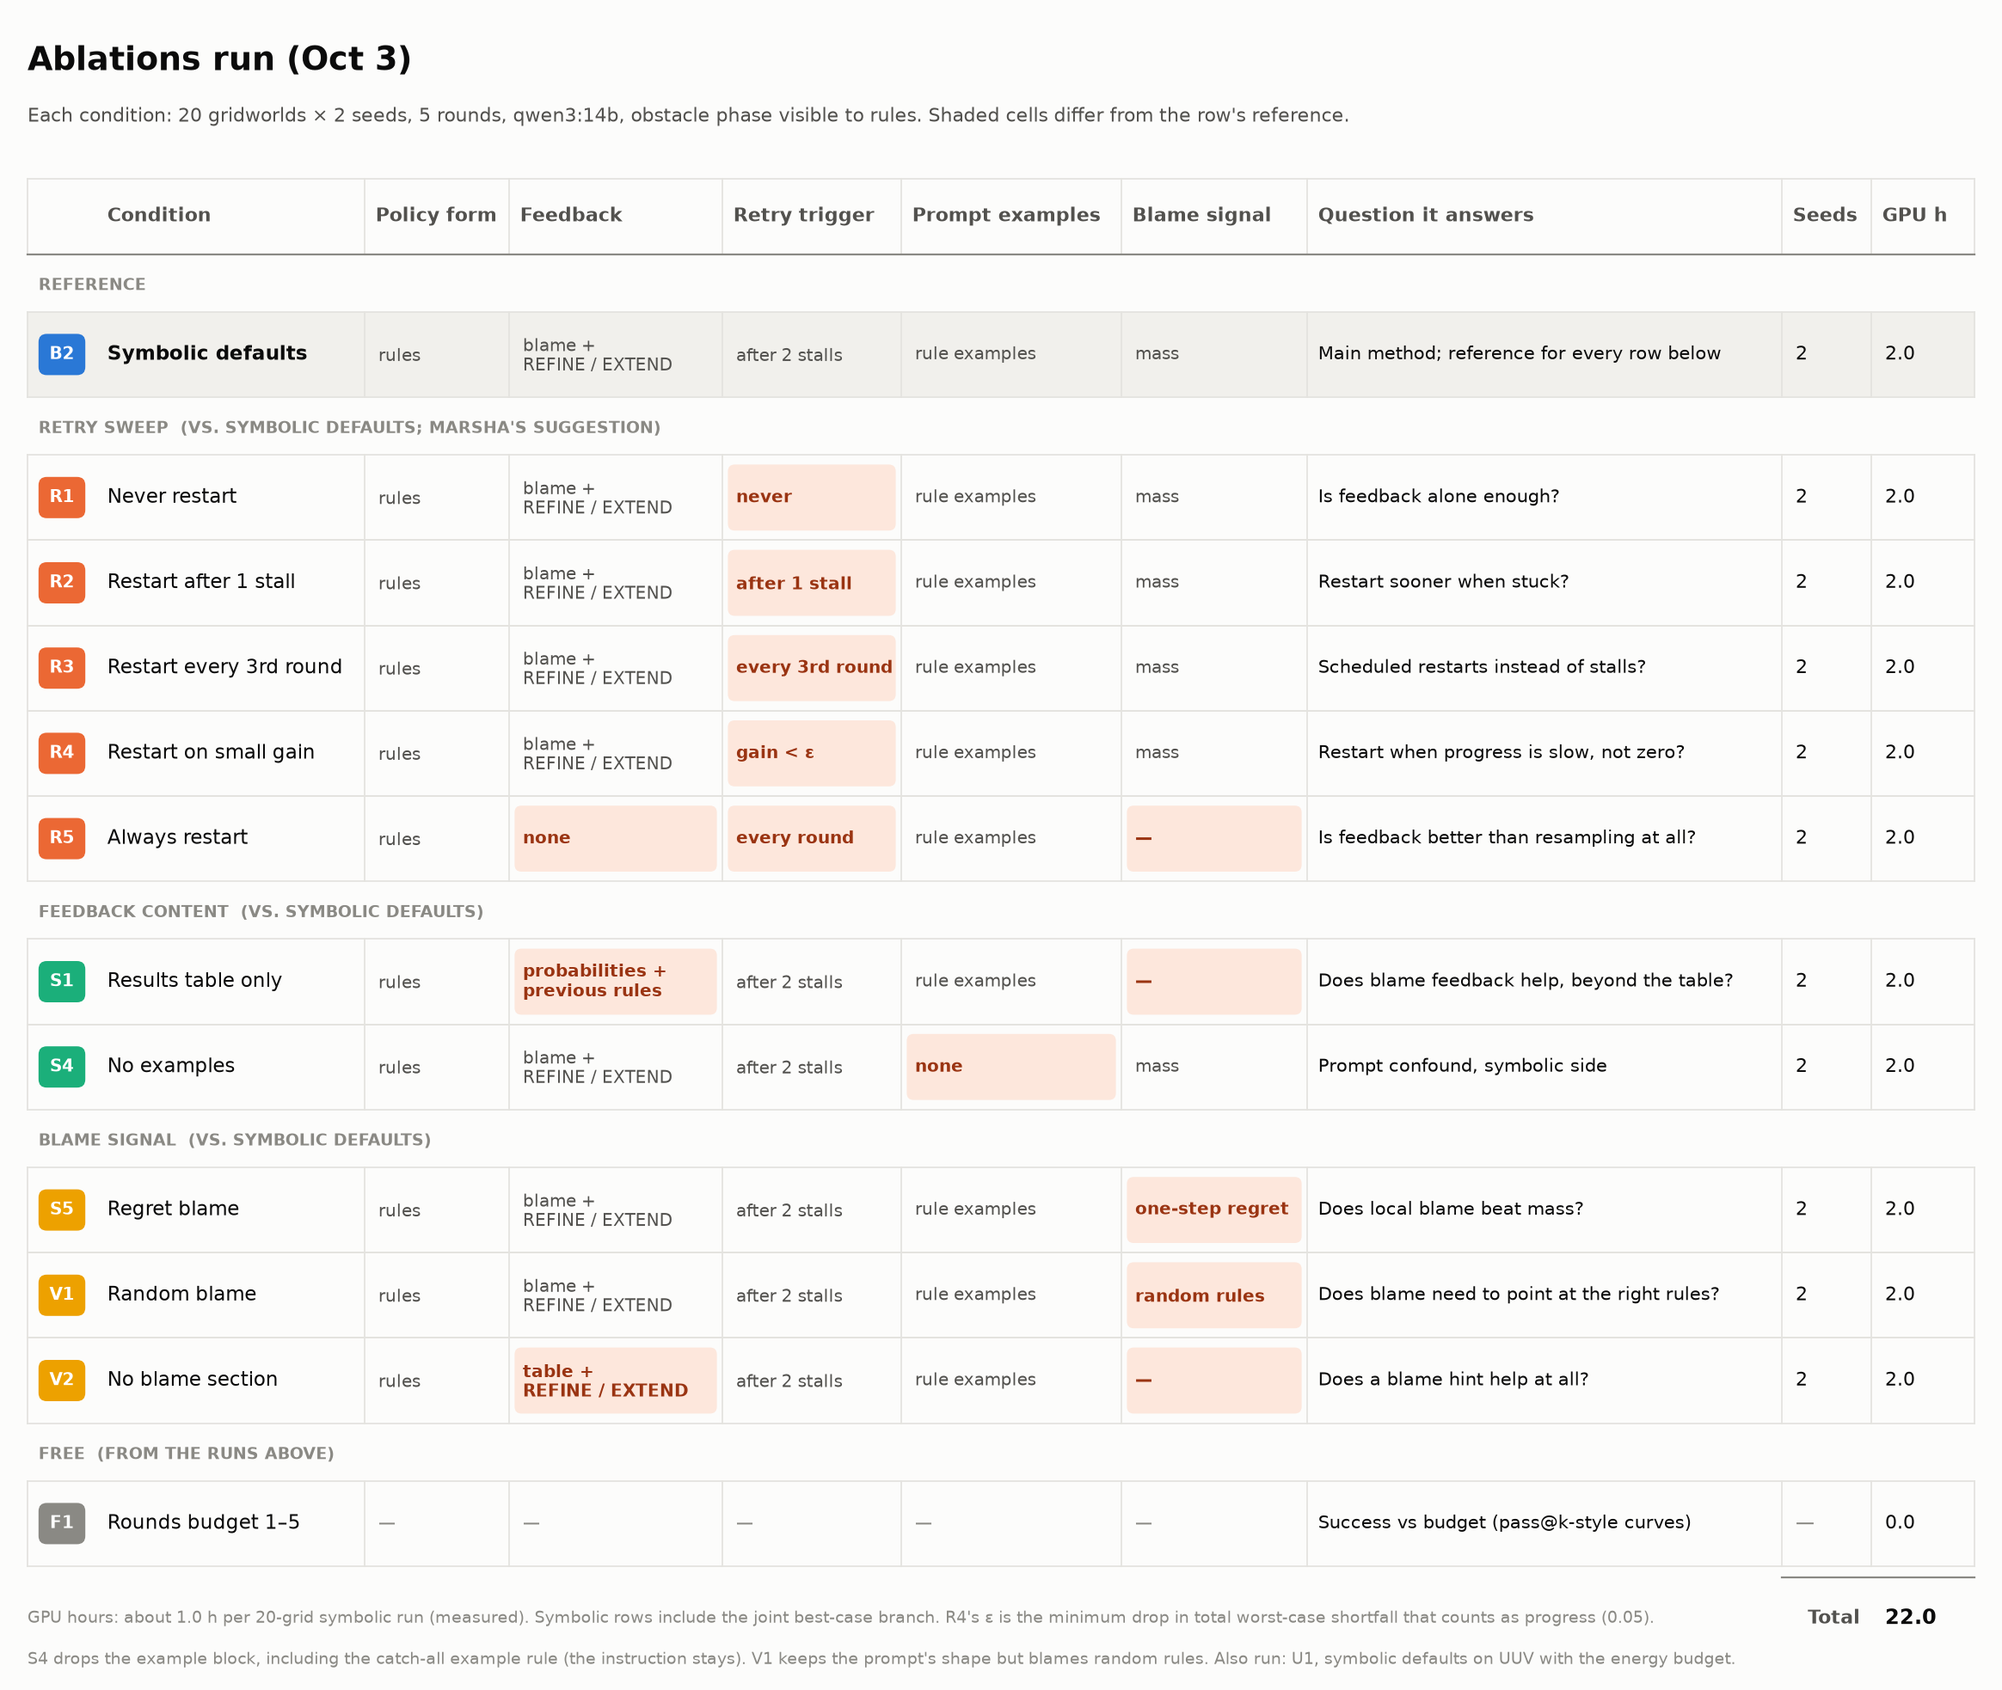
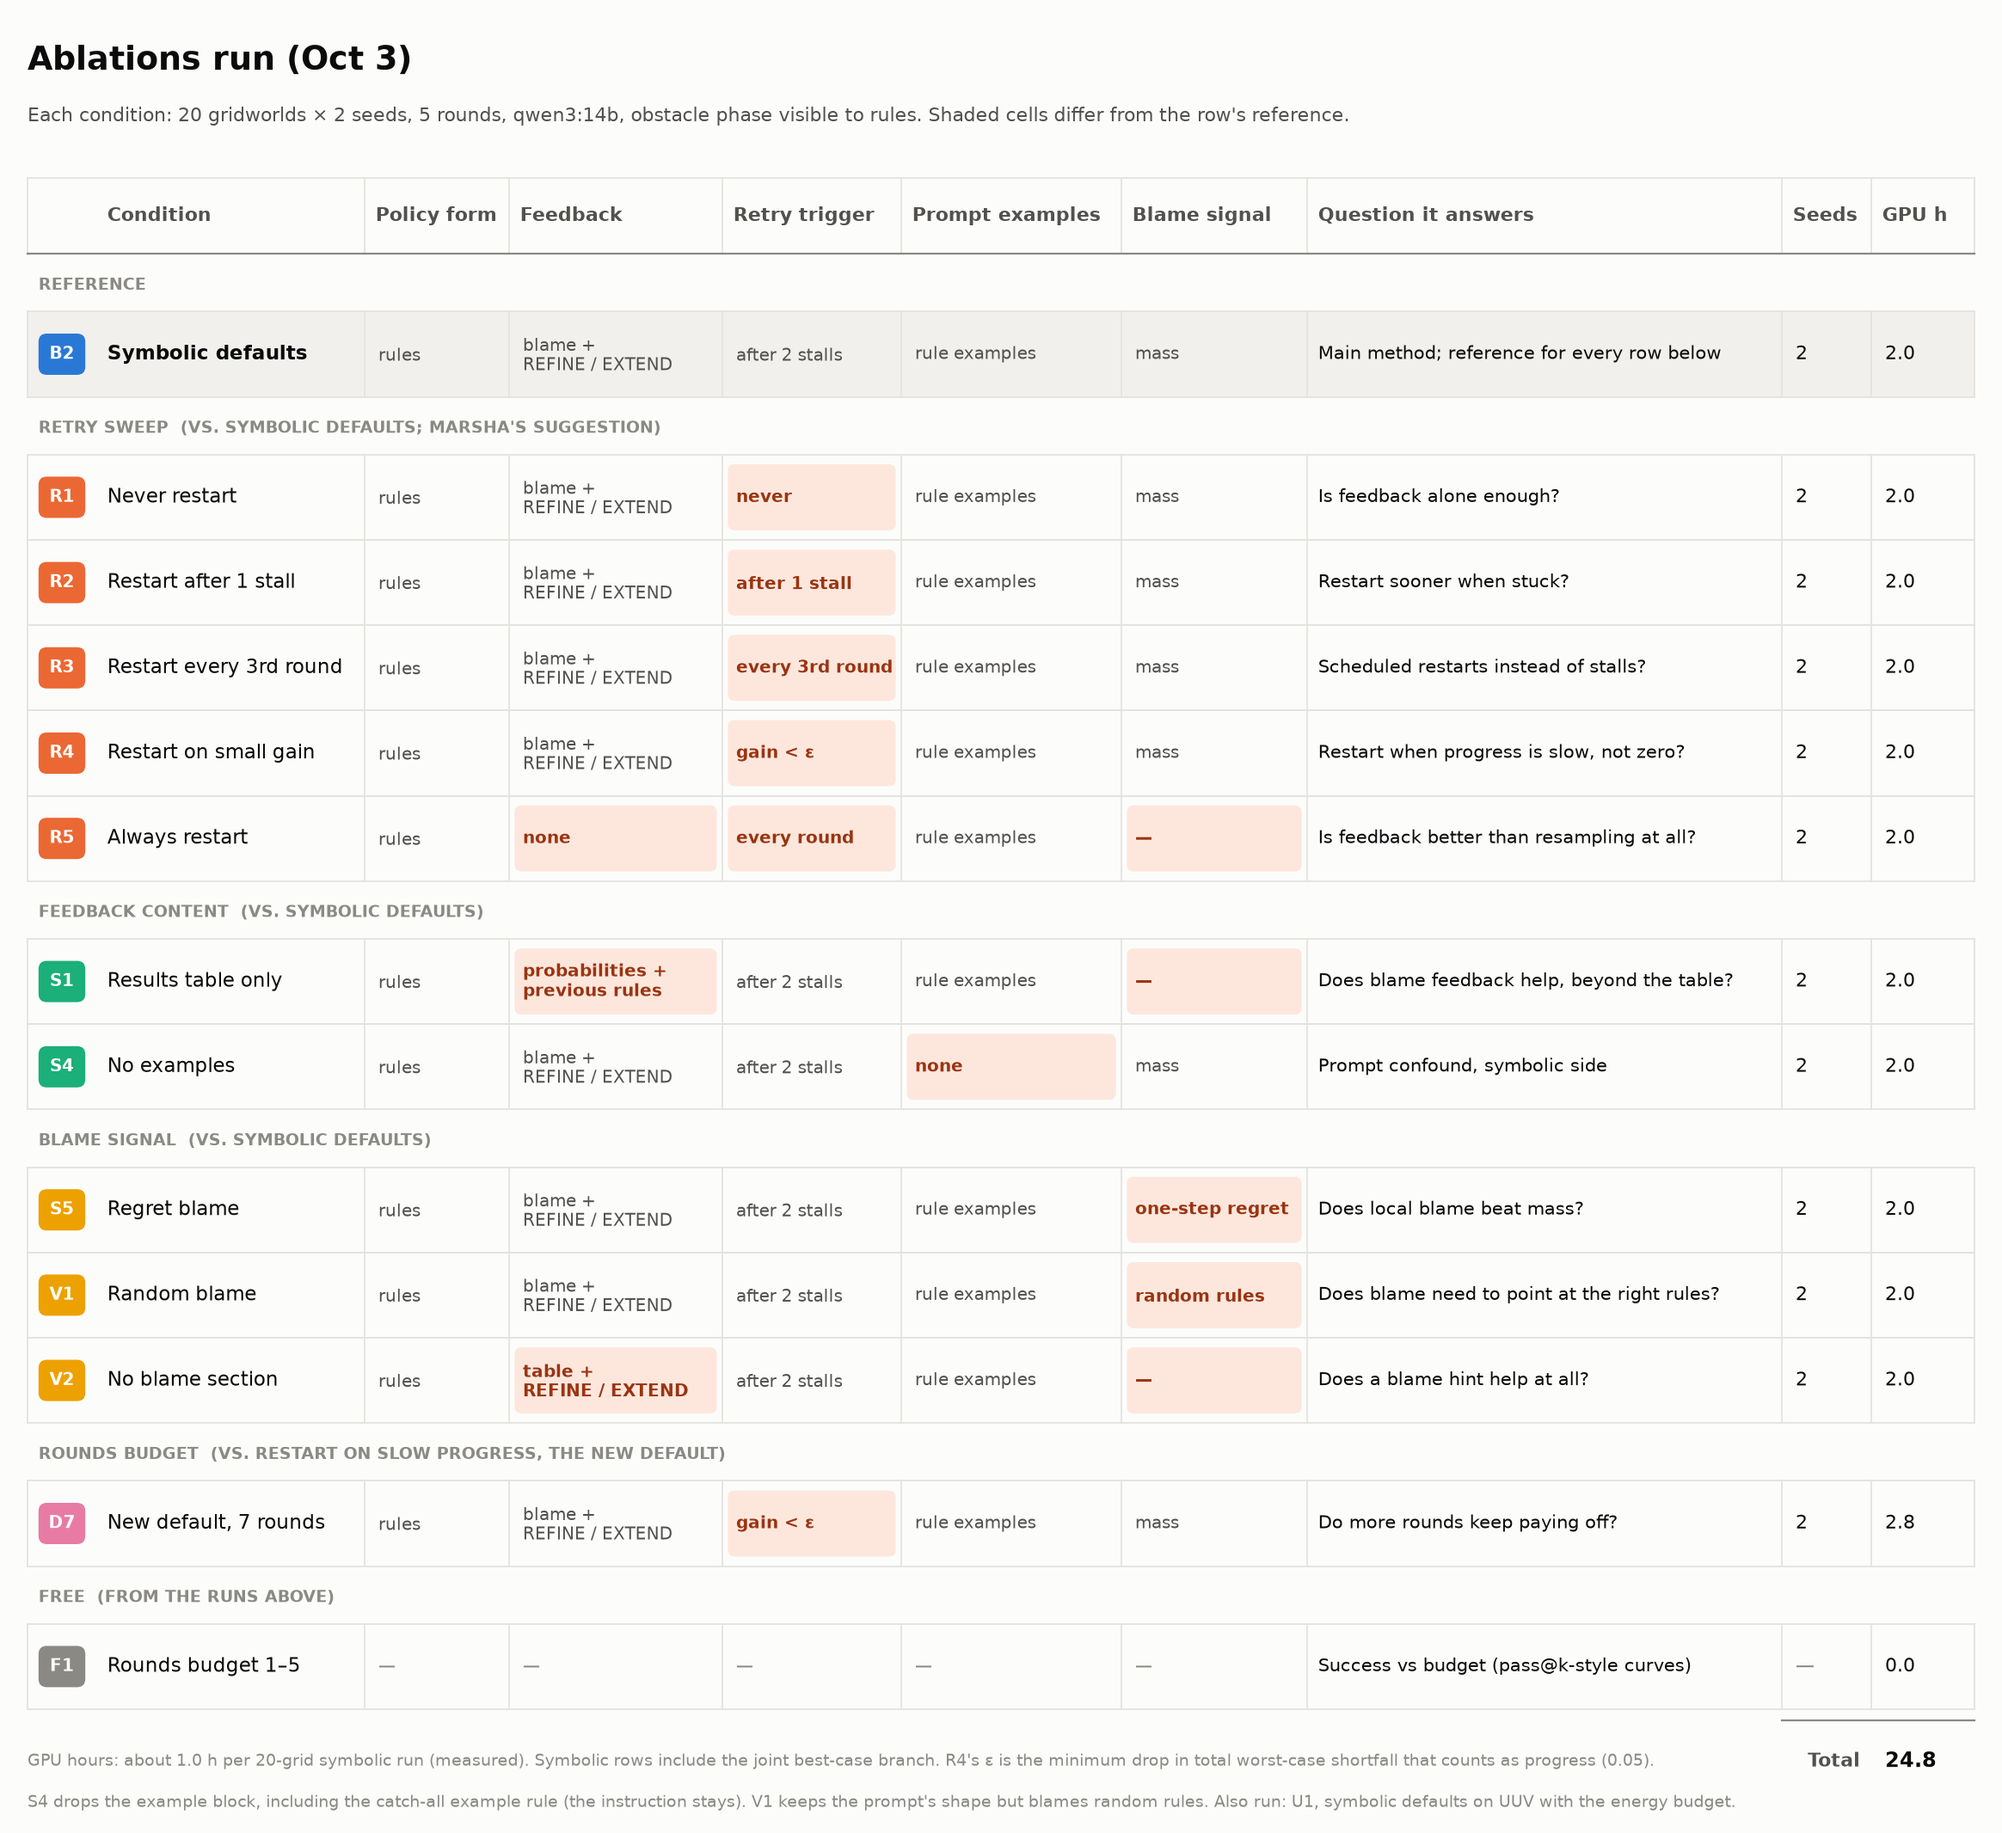
Default retry is now restart on slow progress (gain:0.05); old conditions pin stall:2; D7 (7 rounds) condition

diff --git a/PRISM-Guided-Learning/viz/ablation_summary.py b/PRISM-Guided-Learning/viz/ablation_summary.py
@@ -27,12 +27,13 @@ SYMBOLIC_FILE, LEGACY_FILE = "SYMBOLIC_results.parquet", "LEGACY_FEEDBACK_SIMPLI
 
 # condition -> (family, reference for paired tests, what changes)
 CONDITIONS = {
-    "B2": ("Baselines", None, "Symbolic defaults"),
+    "B2": ("Baselines", None, "Old defaults (restart after 2 stalls)"),
     "R1": ("Retry sweep", "B2", "Never restart"),
     "R2": ("Retry sweep", "B2", "Restart after 1 stall"),
     "R3": ("Retry sweep", "B2", "Restart every 3rd round"),
-    "R4": ("Retry sweep", "B2", "Restart when gain < 0.05"),
+    "R4": ("Retry sweep", "B2", "Restart on slow progress (new default)"),
     "R5": ("Retry sweep", "B2", "Always restart (no feedback)"),
+    "D7": ("Rounds budget", "R4", "New default, 7 rounds"),
     "S1": ("Feedback content", "B2", "Results table only"),
     "S4": ("Feedback content", "B2", "No examples in the prompt"),
     "S5": ("Blame signal", "B2", "Blame by one-step regret"),
@@ -43,8 +44,8 @@ CONDITIONS = {
     "L2": ("Legacy variants", "B1", "Legacy without worked examples"),
 }
 FAMILY_COLORS = {"Baselines": "#2a78d6", "Retry sweep": "#eb6834", "Feedback content": "#1baf7a",
-                 "Blame signal": "#eda100", "Legacy variants": "#4a3aa7"}
-BUDGET_GROUPS = [("Retry sweep", ["B2", "R1", "R2", "R3", "R4", "R5", "B1"]),
+                 "Blame signal": "#eda100", "Rounds budget": "#e87ba4", "Legacy variants": "#4a3aa7"}
+BUDGET_GROUPS = [("Retry sweep and rounds", ["B2", "R1", "R2", "R3", "R4", "R5", "D7", "B1"]),
                  ("Feedback content and blame", ["B2", "S1", "S4", "S5", "V1", "V2"]),
                  ("Legacy", ["B1", "L1", "L2", "B2"])]
 LINE_COLORS = ["#2a78d6", "#eb6834", "#1baf7a", "#eda100", "#e87ba4", "#008300", "#4a3aa7", "#e34948"]
@@ -252,7 +253,9 @@ def plot_budget(runs, out):
     curves = []
     for condition, run_dir in runs:
         legacy = (run_dir / LEGACY_FILE).exists()
-        rows = legacy_curve(run_dir, 5, DATASET) if legacy else symbolic_curve(run_dir, 5)
+        cfg = json.loads((run_dir / "config.json").read_text(encoding="utf-8"))
+        rounds = cfg["legacy" if legacy else "planner"]["max_rounds"]   # curves stop at the run's own budget
+        rows = legacy_curve(run_dir, rounds, DATASET) if legacy else symbolic_curve(run_dir, rounds)
         curves.append(pd.DataFrame(rows).assign(condition=condition, seed=run_dir.name))
     data = pd.concat(curves)
     summary = data.groupby(["condition", "k"]).met.mean().reset_index()
@@ -266,7 +269,7 @@ def plot_budget(runs, out):
             ax.annotate(f"{d.met.iloc[-1]:.2f}", (d.k.iloc[-1], d.met.iloc[-1]), xytext=(5, 0),
                         textcoords="offset points", va="center", fontsize=7.5, color=INK_2)
         style(ax, title, "requirements met (mean per grid)")
-        ax.set_xticks(range(1, 6))
+        ax.set_xticks(range(1, int(summary.k.max()) + 1))
         ax.set_xlabel("rounds budget k", color=INK_2, fontsize=9)
         ax.legend(frameon=False, fontsize=7.5, loc="lower right")
     fig.suptitle("Requirements met by the kept policy after k rounds (seeds pooled)", x=0.01, ha="left",
@@ -363,7 +366,7 @@ def write_markdown(out_dir, table, budget, pending, uuv):
     ks = list(budget.columns)
     lines += ["", "## Requirements met after k rounds", "", "| cond | " + " | ".join(f"k={k}" for k in ks) + " |",
               "|---|" + "---|" * len(ks)]
-    lines += [f"| {c} | " + " | ".join(f"{budget.loc[c, k]:.2f}" for k in ks) + " |"
+    lines += [f"| {c} | " + " | ".join("" if pd.isna(budget.loc[c, k]) else f"{budget.loc[c, k]:.2f}" for k in ks) + " |"
               for c in CONDITIONS if c in budget.index]
     lines.append("")
     if uuv:

diff --git a/PRISM-Guided-Learning/viz/plot_ablation_grid.py b/PRISM-Guided-Learning/viz/plot_ablation_grid.py
@@ -14,9 +14,9 @@ from matplotlib.patches import FancyBboxPatch, Rectangle  # noqa: E402
 SURFACE, INK, INK_2, INK_3, RULE = "#fcfcfb", "#0b0b0b", "#52514e", "#8a8984", "#e4e3df"
 # Badge colours by ablation family, the same as the results charts (viz/ablation_summary.py)
 FAMILY_COLORS = {"Baselines": "#2a78d6", "Retry sweep": "#eb6834", "Feedback content": "#1baf7a",
-                 "Blame signal": "#eda100", "Legacy variants": "#4a3aa7"}
+                 "Blame signal": "#eda100", "Rounds budget": "#e87ba4", "Legacy variants": "#4a3aa7"}
 FAMILY_OF = {"B1": "Baselines", "B2": "Baselines", "R1": "Retry sweep", "R2": "Retry sweep", "R3": "Retry sweep",
-             "R4": "Retry sweep", "R5": "Retry sweep", "S1": "Feedback content", "S4": "Feedback content",
+             "R4": "Retry sweep", "R5": "Retry sweep", "D7": "Rounds budget", "S1": "Feedback content", "S4": "Feedback content",
              "S5": "Blame signal", "V1": "Blame signal", "V2": "Blame signal", "L1": "Legacy variants",
              "L2": "Legacy variants"}
 CHANGED_FILL, CHANGED_INK = "#fde7dc", "#9a3412"   # differs from the row's reference
@@ -78,6 +78,9 @@ RUN = [
      SEEDS, SEEDS * H_SYMBOLIC, False),
     ("V2", "No blame section", "symbolic", sym(feedback="table +\nREFINE / EXTEND", blame="—"),
      "Does a blame hint help at all?", SEEDS, SEEDS * H_SYMBOLIC, False),
+    ("group", "Rounds budget  (vs. restart on slow progress, the new default)"),
+    ("D7", "New default, 7 rounds", "symbolic", sym(retry="gain < ε"), "Do more rounds keep paying off?", SEEDS,
+     SEEDS * H_SYMBOLIC * 7 / 5, False),
     ("group", "Free  (from the runs above)"),
     ("F1", "Rounds budget 1–5", "both", ["—"] * 5, "Success vs budget (pass@k-style curves)", None, 0.0, False),
 ]

diff --git a/PRISM-Guided-Learning/src/config.py b/PRISM-Guided-Learning/src/config.py
@@ -37,7 +37,7 @@ class LLMConfig:
 class PlannerConfig:
     max_rounds: int = 5
     max_fixups: int = 2                       # extra calls per round when the answer has invalid rules
-    retry: str = "stall:2"                    # stall:k | never | every:k | gain:eps | always
+    retry: str = "gain:0.05"                  # stall:k | never | every:k | gain:eps | always
     branch: str = "joint"                     # joint | per_requirement
     feedback: str = "blame"                   # blame (REFINE/EXTEND with blame) | table (S1: results table only)
     max_rules: int = 64

diff --git a/DECISIONS.md b/DECISIONS.md
@@ -149,3 +149,9 @@ What was built is in `docs/plan.md` (Phase A table; ceilings and budget curves u
 - **V1 (random blame)** is a placebo: same number of rules/states as B2, equal shares, and B2's wording. **V2** drops the blame section but keeps the framing.
 - **L1:** legacy's retry uses the same `stall:k` rule as symbolic; a blind-retry round regenerates every (goal, phase) from the initial prompt, then keep-best applies as usual.
 - **Run order:** batch 1 (B2, R1–R5) finished first; then the symbolic part of batch 2 (S1, S4, S5, V1, V2), U1, then all legacy runs (B1, L1, L2). Legacy B1 was moved behind the symbolic batch-2 runs, following "all symbolic first, then legacy".
+
+## Default retry policy changed (Oct 3)
+- **Default `planner.retry` is now `gain:0.05`** (restart when the last round cut total worst-case shortfall by less than 0.05, including no improvement). It won the retry sweep: 4.95 requirements met vs 4.45 for the old default `stall:2` (p = 0.055) and 4.72 for pure resampling (p = 0.31; better on 10 grids, worse on 6).
+- Every condition that ran with the old default now pins `retry: "stall:2"` in `configs/conditions.yaml`, so its name still means what was run (checked against each run's `config.json`).
+- **D7:** the new default with 7 rounds, 2 seeds, to see whether more rounds keep paying off (all budget curves were still rising at round 5).
+- Legacy runs were stopped on Oct 3 (lower priority than the symbolic results); `docs/ablation_not_run.png`.

diff --git a/docs/config.md b/docs/config.md
@@ -26,9 +26,9 @@ python src/run_ablation.py B2 R1 R2 R3 R4 R5 --seeds 1 2
 | `llm.num_ctx` / `llm.num_predict` | 16384 / 8192 | context and output token limits | — |
 | `llm.seed` | `null` | run seed (set per seed by `run_ablation.py`); each call uses a seed derived from it and the call's index within the instance | seeds 1, 2 |
 | `llm.temperature` | `null` | `null` = the model's default | — |
-| `planner.max_rounds` | 5 | generate → verify rounds per instance | F1 (budget curves, free) |
+| `planner.max_rounds` | 5 | generate → verify rounds per instance | F1 (budget curves, free), D7 (7 rounds) |
 | `planner.max_fixups` | 2 | re-asks per round for invalid answers | — |
-| `planner.retry` | `stall:2` | when to start over from the initial prompt: `stall:k`, `never`, `every:k`, `gain:ε`, `always` | R1–R5 |
+| `planner.retry` | `gain:0.05` | when to start over from the initial prompt: `stall:k`, `never`, `every:k`, `gain:ε`, `always`. Was `stall:2` until Oct 3 (the conditions that ran with it pin it) | R1–R5 |
 | `planner.branch` | `joint` | REFINE vs EXTEND: one completion must pass every requirement (`joint`), or each on its own (`per_requirement`, used by the old runs) | `pre_phase_a` |
 | `planner.feedback` | `blame` | `blame`: REFINE/EXTEND prompts with blame; `table`: results table and previous rules only, no branch | S1 |
 | `planner.max_rules` / `max_condition_chars` | 64 / 200 | schema caps (stop repetition loops) | — |

diff --git a/docs/ablations.md b/docs/ablations.md
@@ -29,6 +29,7 @@ The figures are generated by `PRISM-Guided-Learning/viz/plot_ablation_grid.py`; 
 | V2 | No blame section; REFINE/EXTEND framing and the results table stay. Compare with S1 (no framing either). |
 | L1 | Legacy with B2's blind retry: after 2 rounds without improvement, the next round uses the initial prompt (per goal and phase). |
 | L2 | Legacy without its two worked examples (the short action examples in the repair prompt stay). |
+| D7 | The new default (restart on slow progress, R4) with 7 rounds instead of 5. Its first 5 rounds use the same per-call seeds as R4, so it also checks the run-to-run reproducibility of R4. |
 | U1 | Not an ablation: symbolic defaults on UUV (both scenarios, energy budget included, mass horizon = mission deadline). |
 | F1 | No runs. The result with budget k = the kept policy after the first k rounds, because nothing in rounds 1..k depends on later rounds. This gives success vs budget for k = 1..5 from every run above. |
 
